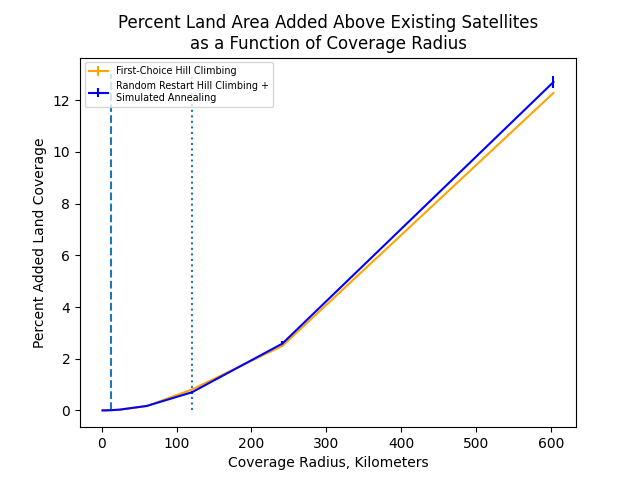
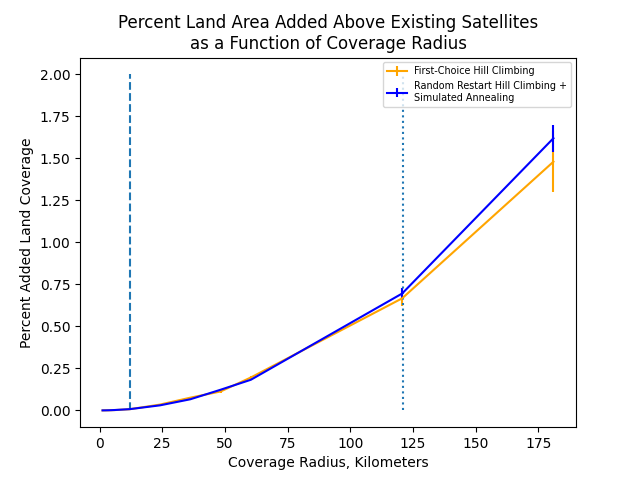
re-did the figures

diff --git a/src/buffer_radius_sensitivity_analysis.py b/src/buffer_radius_sensitivity_analysis.py
@@ -130,8 +130,8 @@ def buffer_variation_hc(
                 print_progress=print_progress,
                 num_iterations=ls_iter,
             )
-            # get the time for the episode and append it to the multiplier list
-            episode_time = np.sum(iteration_time_list)
+            # get the time for the episode in minutes and append it to the multiplier list
+            episode_time = np.sum(iteration_time_list) / 60.0
             multiplier_duration.append(episode_time)
 
             # append the total coverage to the multiplier list
@@ -346,7 +346,7 @@ def buffer_variation_rrsa(
                 )
             )
             # get the time for the episode and append it to the multiplier list
-            episode_time = np.sum(iteration_time_list)
+            episode_time = np.sum(iteration_time_list) / 60.0
             multiplier_duration.append(episode_time)
 
             # append the total coverage to the multiplier list
@@ -461,6 +461,40 @@ def buffer_variation_rrsa(
         median_absolute_deviation_percent_above_initial,
     )
 
+# df_2 = pd.read_csv("Buffer_Radius_Sensitivity_Analysis_Results_200iterations_100km.csv")
+# hc_df_2 = df_2[df_2["Algorithm"] == "First-Choice Hill Climbing"]
+# rrsa_df_2 = df_2[df_2["Algorithm"] == "Random Restart Hill Climbing with Simulated Annealing"]
+
+# hc_average_durations = hc_df_2.iloc[:, 3]
+# hc_median_absolute_deviation_duration = hc_df_2.iloc[:, 4]
+# hc_average_total_coverage = hc_df_2.iloc[:, 5]
+# hc_median_absolute_deviation_coverage = hc_df_2.iloc[:, 6]
+# hc_average_added_coverage_above_existing = hc_df_2.iloc[:, 7]
+# hc_median_absolute_deviation_above_existing = hc_df_2.iloc[:, 8]
+# hc_average_added_coverage_above_initial = hc_df_2.iloc[:, 9]
+# hc_median_absolute_deviation_above_initial = hc_df_2.iloc[:, 10]
+# hc_average_percent_coverage = hc_df_2.iloc[:, 11]
+# hc_median_absolute_deviation_percent_coverage = hc_df_2.iloc[:, 12]
+# hc_average_percent_above_existing = hc_df_2.iloc[:, 13]
+# hc_median_absolute_deviation_percent_above_existing = hc_df_2.iloc[:, 14]
+# hc_average_percent_above_initial = hc_df_2.iloc[:, 15]
+# hc_median_absolute_deviation_percent_above_initial = hc_df_2.iloc[:, 16]
+
+# rrsa_average_durations = rrsa_df_2.iloc[:, 3]
+# rrsa_median_absolute_deviation_duration = rrsa_df_2.iloc[:, 4]
+# rrsa_average_total_coverage = rrsa_df_2.iloc[:, 5]
+# rrsa_median_absolute_deviation_coverage = rrsa_df_2.iloc[:, 6]
+# rrsa_average_added_coverage_above_existing = rrsa_df_2.iloc[:, 7]
+# rrsa_median_absolute_deviation_above_existing = rrsa_df_2.iloc[:, 8]
+# rrsa_average_added_coverage_above_initial = rrsa_df_2.iloc[:, 9]
+# rrsa_median_absolute_deviation_above_initial = rrsa_df_2.iloc[:, 10]
+# rrsa_average_percent_coverage = rrsa_df_2.iloc[:, 11]
+# rrsa_median_absolute_deviation_percent_coverage = rrsa_df_2.iloc[:, 12]
+# rrsa_average_percent_above_existing = rrsa_df_2.iloc[:, 13]
+# rrsa_median_absolute_deviation_percent_above_existing = rrsa_df_2.iloc[:, 14]
+# rrsa_average_percent_above_initial = rrsa_df_2.iloc[:, 15]
+# rrsa_median_absolute_deviation_percent_above_initial = rrsa_df_2.iloc[:, 16]
+
 
 # running the loops for each algorithm
 (
@@ -559,7 +593,7 @@ rrsa_df["Algorithm"] = "Random Restart Hill Climbing with Simulated Annealing"
 
 df = pd.concat([hc_df, rrsa_df])
 filename = (
-    "Buffer_Radius_Sensitivity_Analysis_Results"
+    "Buffer_Radius_Sensitivity_Analysis_Results_"
     + str(LOCAL_SEARCH_ITERATIONS)
     + "iterations_"
     + str(PERTURB_DISTANCE_KM)
@@ -595,11 +629,6 @@ print(
     "Random Restart Simulated Annealing Hill Climbing MAD Percent Coverage:",
     rrsa_median_absolute_deviation_percent_coverage,
 )
-
-# import pandas as pd
-# import numpy as np
-# import matplotlib.pyplot as plt
-# from datetime import datetime
 
 # plotting function for this parameter sensitivity analysis
 def plot_for_sensitivity_analysis(
@@ -644,50 +673,6 @@ def plot_for_sensitivity_analysis(
 
     return fig
 
-# PERTURB_DISTANCE_KM = 500
-# MULTIPLIERS = [0.1, 0.5, 1, 2, 5, 10, 20, 50]
-# LOCAL_SEARCH_ITERATIONS = 100
-# BASE_BUFFER = 12065
-
-# new_df = pd.read_csv(
-#     "Buffer_Radius_Sensitivity_Analysis_Results_100iterations_500km.csv", index_col=0
-# )
-# hc_df_2 = new_df[new_df["Algorithm"] == "First-Choice Hill Climbing"]
-# rrsa_df_2 = new_df[
-#     new_df["Algorithm"] == "Random Restart Hill Climbing with Simulated Annealing"
-# ]
-
-
-# hc_average_durations = hc_df_2.iloc[:, 1]
-# hc_median_absolute_deviation_duration = hc_df_2.iloc[:, 2]
-# hc_average_total_coverage = hc_df_2.iloc[:, 3]
-# hc_median_absolute_deviation_coverage = hc_df_2.iloc[:, 4]
-# hc_average_added_coverage_above_existing = hc_df_2.iloc[:, 5]
-# hc_median_absolute_deviation_above_existing = hc_df_2.iloc[:, 6]
-# hc_average_added_coverage_above_initial = hc_df_2.iloc[:, 7]
-# hc_median_absolute_deviation_above_initial = hc_df_2.iloc[:, 8]
-# hc_average_percent_coverage = hc_df_2.iloc[:, 9]
-# hc_median_absolute_deviation_percent_coverage = hc_df_2.iloc[:, 10]
-# hc_average_percent_above_existing = hc_df_2.iloc[:, 11]
-# hc_median_absolute_deviation_percent_above_existing = hc_df_2.iloc[:, 12]
-# hc_average_percent_above_initial = hc_df_2.iloc[:, 13]
-# hc_median_absolute_deviation_percent_above_initial = hc_df_2.iloc[:, 14]
-
-# rrsa_average_durations = rrsa_df_2.iloc[:, 1]
-# rrsa_median_absolute_deviation_duration = rrsa_df_2.iloc[:, 2]
-# rrsa_average_total_coverage = rrsa_df_2.iloc[:, 3]
-# rrsa_median_absolute_deviation_coverage = rrsa_df_2.iloc[:, 4]
-# rrsa_average_added_coverage_above_existing = rrsa_df_2.iloc[:, 5]
-# rrsa_median_absolute_deviation_above_existing = rrsa_df_2.iloc[:, 6]
-# rrsa_average_added_coverage_above_initial = rrsa_df_2.iloc[:, 7]
-# rrsa_median_absolute_deviation_above_initial = rrsa_df_2.iloc[:, 8]
-# rrsa_average_percent_coverage = rrsa_df_2.iloc[:, 9]
-# rrsa_median_absolute_deviation_percent_coverage = rrsa_df_2.iloc[:, 10]
-# rrsa_average_percent_above_existing = rrsa_df_2.iloc[:, 11]
-# rrsa_median_absolute_deviation_percent_above_existing = rrsa_df_2.iloc[:, 12]
-# rrsa_average_percent_above_initial = rrsa_df_2.iloc[:, 13]
-# rrsa_median_absolute_deviation_percent_above_initial = rrsa_df_2.iloc[:, 14]
-
 durations_versus_buffer = plot_for_sensitivity_analysis(
     multipliers=MULTIPLIERS,
     initial_buffer=BASE_BUFFER,
@@ -695,8 +680,8 @@ durations_versus_buffer = plot_for_sensitivity_analysis(
     hc_error=hc_median_absolute_deviation_duration,
     rrsa_parameter=rrsa_average_durations,
     rrsa_error=rrsa_median_absolute_deviation_duration,
-    y_label="Duration,\nSeconds",
-    ymax=2000,
+    y_label="Duration,\nMinutes",
+    ymax=20,
     title="Runtime Duration as a Function of Coverage Radius",
 )
 total_coverage_versus_buffer = plot_for_sensitivity_analysis(
@@ -707,7 +692,7 @@ total_coverage_versus_buffer = plot_for_sensitivity_analysis(
     rrsa_parameter=rrsa_average_total_coverage,
     rrsa_error=rrsa_median_absolute_deviation_coverage,
     y_label="Total Coverage Area,\nSquare Km",
-    ymax=2e9,
+    ymax=2e8,
     title="Total Satellite Coverage Area\nas a Function of Coverage Radius",
 )
 coverage_above_existing_versus_buffer = plot_for_sensitivity_analysis(
@@ -718,7 +703,7 @@ coverage_above_existing_versus_buffer = plot_for_sensitivity_analysis(
     rrsa_parameter=rrsa_average_added_coverage_above_existing,
     rrsa_error=rrsa_median_absolute_deviation_above_existing,
     y_label="Added Coverage Area\nSquare Km",
-    ymax=2e7,
+    ymax=2.5e6,
     title="Coverage Area Added Above Existing Satellite Constellation\nas a Function of Coverage Radius",
 )
 coverage_above_initial_versus_buffer = plot_for_sensitivity_analysis(
@@ -729,7 +714,7 @@ coverage_above_initial_versus_buffer = plot_for_sensitivity_analysis(
     rrsa_parameter=rrsa_average_added_coverage_above_initial,
     rrsa_error=rrsa_median_absolute_deviation_above_initial,
     y_label="Added Coverage Area\nSquare Km",
-    ymax=6e6,
+    ymax=1.25e6,
     title="Coverage Area Added Above Initial Random Placement\nas a Function of Coverage Radius",
 )
 percent_coverage_versus_buffer = plot_for_sensitivity_analysis(
@@ -740,7 +725,7 @@ percent_coverage_versus_buffer = plot_for_sensitivity_analysis(
     rrsa_parameter=rrsa_average_percent_coverage,
     rrsa_error=rrsa_median_absolute_deviation_percent_coverage,
     y_label="Percent Land Coverage",
-    ymax=1500,
+    ymax=150,
     title="Total Percent Land Area Covered\nas a Function of Coverage Radius",
 )
 percent_above_existing_versus_buffer = plot_for_sensitivity_analysis(
@@ -751,7 +736,7 @@ percent_above_existing_versus_buffer = plot_for_sensitivity_analysis(
     rrsa_parameter=rrsa_average_percent_above_existing,
     rrsa_error=rrsa_median_absolute_deviation_percent_above_existing,
     y_label="Percent Added Land Coverage",
-    ymax=13,
+    ymax=2,
     title="Percent Land Area Added Above Existing Satellites\nas a Function of Coverage Radius",
 )
 percent_above_initial_versus_buffer = plot_for_sensitivity_analysis(
@@ -762,7 +747,7 @@ percent_above_initial_versus_buffer = plot_for_sensitivity_analysis(
     rrsa_parameter=rrsa_average_percent_above_initial,
     rrsa_error=rrsa_median_absolute_deviation_percent_above_initial,
     y_label="Percent Added Land Coverage",
-    ymax=4,
+    ymax=1,
     title="Percent Land Area Added Above Initial Configuration\nas a Function of Coverage Radius",
 )
 plt.show()

diff --git a/src/number_iterations_sensitivity_analysis.py b/src/number_iterations_sensitivity_analysis.py
@@ -129,8 +129,8 @@ def buffer_variation_hc(
                 print_progress=print_progress,
                 num_iterations=ls_iter,
             )
-            # get the time for the episode and append it to the multiplier list
-            episode_time = np.sum(iteration_time_list)
+            # get the time for the episode in minutes and append it to the multiplier list
+            episode_time = np.sum(iteration_time_list) / 60.0
             multiplier_duration.append(episode_time)
 
             # append the total coverage to the multiplier list
@@ -344,8 +344,8 @@ def buffer_variation_rrsa(
                     restart_threshold=restart_thresh,
                 )
             )
-            # get the time for the episode and append it to the multiplier list
-            episode_time = np.sum(iteration_time_list)
+            # get the time for the episode in minutes and append it to the multiplier list
+            episode_time = np.sum(iteration_time_list) / 60.0
             multiplier_duration.append(episode_time)
 
             # append the total coverage to the multiplier list
@@ -646,8 +646,8 @@ durations_versus_iterations = plot_for_sensitivity_analysis(
     hc_error=hc_median_absolute_deviation_duration,
     rrsa_parameter=rrsa_average_durations,
     rrsa_error=rrsa_median_absolute_deviation_duration,
-    y_label="Duration,\nSeconds",
-    ymax=2000,
+    y_label="Duration,\nMinutes",
+    ymax=60,
     title="Runtime Duration as a Function of Coverage Radius",
 )
 total_coverage_versus_iterations = plot_for_sensitivity_analysis(
